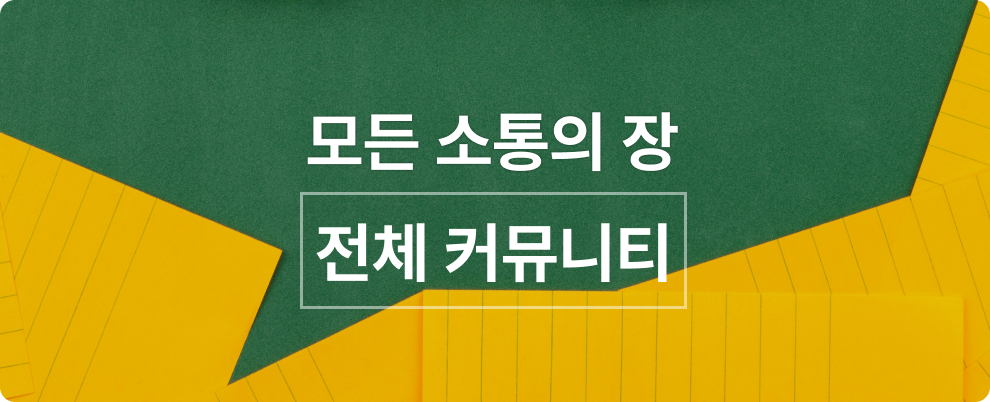
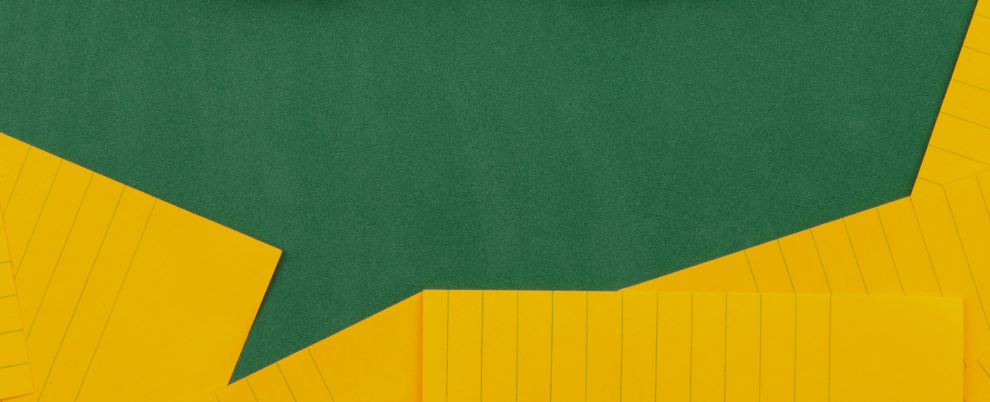
배너 완료. 반응형 나오면 디테일 수정 해야함,

diff --git a/css/main.css b/css/main.css
@@ -189,7 +189,9 @@ h4.dr-icon-best::before, .dr-community-vote h4::before{content:"";display: inlin
 
 /* 배너 */
 .dr-community-banner{width:330px; height: 140px; display: inline-block;border-radius: 5px; position: relative;}
-.dr-community-banner p { font-size: 2rem; color: #fff; position: absolute; top: 50%; left: 50%; transform: translate(-50%,-50%); }
+.dr-community-banner span{font-size: 2.2rem;color: #fff;position: absolute;top: 50%;left: 50%;transform: translate(-50%,-50%);line-height: 31px; font-weight: 700;margin-top: -20px;}
+.dr-community-banner span:last-child{margin-top: 20px; border:1px solid #fff; padding: 5px;}
+
 
 /* 투표 */
 .dr-community-vote{width:330px; height: 140px; border: 1px solid #E8E8EB;border-radius: 5px; padding: 2.5rem 3rem; overflow: hidden; background-color: #fff;}
@@ -237,6 +239,8 @@ h4.dr-icon-best::before, .dr-community-vote h4::before{content:"";display: inlin
 .dr-industry-cont-best ul li a{display: block; padding-top: 0.5rem; position: relative; line-height: 20px;}
 .dr-industry-cont-best ul li a::after{content: "";display: inline-block;width: 23px;height: 23px;background-image: url(../../img/icon/icon_arrow.png);background-size: contain;position: absolute;right: 0;top: 5px;}
 .dr-industry-cont-best ul li p{display: inline-block; width: calc(100% - 40px); font-size: 1.3rem; color: #505866; font-weight: 500; vertical-align: middle; overflow: hidden; text-overflow: ellipsis; white-space: nowrap;}
+
+.dr-community-banner.type2{margin: -2.5rem -3rem; top: 110px;}
 /* 커뮤니티_글상세 e */
 
 /* 커뮤니티_게시판 s */
@@ -269,7 +273,7 @@ h4.dr-icon-best::before, .dr-community-vote h4::before{content:"";display: inlin
 .dr-all-board-txt > span {line-height: 22px; color:#989CA1; display: -webkit-box; -webkit-line-clamp: 2; -webkit-box-orient: vertical; max-height:100%; overflow: hidden; margin-bottom:2rem;}
 .dr-all-date-wrap {display: flex; justify-content: space-between; align-items: center;}
 .dr-all-date-wrap > p {color:#989ca1;}
-.dr-banner-link {position: relative;}
+.dr-banner-link {position: relative; top: 50%; transform: translateY(-50%);}
 .dr-loading {margin-top:40px;}
 .dr-loading img {width: 24px; height: 24px; object-fit: cover; animation-name:dr-rotate; animation-iteration-count: infinite; animation-duration: 2s; animation-timing-function: linear;}
 @-webkit-keyframes dr-rotate{
@@ -334,7 +338,8 @@ h4.dr-icon-best::before, .dr-community-vote h4::before{content:"";display: inlin
 .dr-feel-write-txt {color:#689e81; font-size:12px; font-weight:500; line-height:20px;}
 .dr-feel-write-txt span {margin:0 4px;}
 
-.dr-feel .dr-community-banner {margin-top:25px;}
+.dr-feel .dr-community-banner {position: relative; margin-top:25px; height: auto; text-align: center;}
+.dr-feel .dr-community-banner img{border-radius: 5px;}
 /* 커뮤니티_감정평가법인 e */
 /* ------커뮤니티------ e */
 
@@ -443,6 +448,7 @@ h4.dr-icon-best::before, .dr-community-vote h4::before{content:"";display: inlin
 .dr-popup-wrap.dr-popup-delete{width: 388px;}
 .dr-popup-wrap.dr-popup-delete footer{background-color: transparent;}
 .dr-popup-wrap.dr-popup-delete button{margin: 0 5px; display: flex;justify-content: space-around;}
+.dr-partner-banner {position:relative;margin:-2.5rem -3rem -3rem -3rem;top:50px;}
 /* 파트너협업_글 상세 e*/
 
 /* 삭제하기 팝업 */
@@ -779,10 +785,12 @@ h4.dr-icon-best::before, .dr-community-vote h4::before{content:"";display: inlin
     /* 커뮤니티_글상세 s */
     .dr-details-wrap{max-width: 600px;}
     .dr-industry-cont-best{max-width: 290px;}
+    .dr-community-banner.type2{width: unset; max-width: unset; height: auto;}
      /* 커뮤니티_글상세 e */
 
     /* 커뮤니티_감정법인 s */
     .dr-feel .dr-industry{margin-top:0; flex-direction: column;}
+    .dr-all-board-list > ul > li.dr-banner-long{padding: 1rem;}
     /* 커뮤니티_감정법인 e */
     /* ------커뮤니티------ e */
 
@@ -927,9 +935,8 @@ h4.dr-icon-best::before, .dr-community-vote h4::before{content:"";display: inlin
     
     /* 커뮤니티_글상세 s */
     .dr-community-main.details{display: block !important;} 
-    .dr-details-wrap{max-width: 100%;}
+    .dr-details-wrap{max-width: 100%; margin-right: 0rem; padding: 2.5rem 2.5rem;}
     .dr-industry-cont-best{max-width: 100%; margin-top: 2.5rem;}
-    .dr-details-wrap{margin-right: 0rem;}
     /* 커뮤니티_글상세 e */
     
     /* 커뮤니티_게시판 s */
@@ -945,6 +952,7 @@ h4.dr-icon-best::before, .dr-community-vote h4::before{content:"";display: inlin
     /* 커뮤니티_감정법인 s */
     .dr-feel .dr-industry{margin-top:2.5rem; min-width: auto;}
     .dr-feel .dr-title-wrap .dr-title-search-box input {width:calc(100% - 123px);}
+    .dr-all-board-list > ul > li.dr-banner-long{padding: 0;}
     /* 커뮤니티_감정법인 e */
     /* ------커뮤니티------ e*/
     

diff --git a/html/partner/partner_details.html b/html/partner/partner_details.html
@@ -103,7 +103,7 @@
                         <a href="#none" class="dr-button dr-delete-button" onclick="drPopupOpen('.dr-popup-delete')">글 삭제하기</a>
                     </div>
                 </div>  
-                <div  class="dr-information"> 
+                <div class="dr-information"> 
                     <h4>작성자 정보 보기</h4>
                     <div>
                         <div class="d-flex justify-content-between">
@@ -123,10 +123,15 @@
                             <span class="text-decoration-underline">asdfg@gmail.com</span>
                         </div>
                     </div>
+                    <!-- 2023-09-18 추가 s -->
+                    <div class="dr-partner-banner">
+                        <img src="../../img/contents/pr-banner-1.png" alt="">
+                    </div>
+                    <!-- 2023-09-18 추가 e -->
                 </div>
 
                 <!-- 협업 의향 보내기 --> 
-                <!-- <div  class="dr-information"> 
+                <!-- <div class="dr-information"> 
                     <h4>작성자 정보 보기</h4>
                     <div>
                         <div class="d-flex justify-content-between">
@@ -141,7 +146,7 @@
                 </div> -->
 
                 <!-- 마감 일시 --> 
-                <!-- <div  class="dr-information"> 
+                <!-- <div class="dr-information"> 
                     <h4>작성자 정보 보기</h4>
                     <div>
                         <div class="d-flex justify-content-between">

diff --git a/html/community/community.html b/html/community/community.html
@@ -225,8 +225,12 @@
                 <!-- 로그인 아닐 시 노출 e-->
                 <div class="dr-community-side">
                     <div class="dr-community-banner mt-xl-4">
+                        <!-- 2023-09-18 추가 s -->
                         <!-- <p class="">Banner image link</p> -->
-                        <img src="../../img/contents/co-banner-1.png" alt="광고 이미지"><!-- 2023-09-18 -->
+                        <a href="#none" class="d-block">
+                            <img src="../../img/contents/co-banner-1.png" alt="광고 이미지">
+                        </a>    
+                        <!-- 2023-09-18 추가 s -->
                     </div> 
                     <div class="dr-community-vote mt-4">
                         <h4 class="dr-icon-vote dr-fw-700">인기 투표</h4>

diff --git a/html/community/post_details.html b/html/community/post_details.html
@@ -253,7 +253,15 @@
                         </li>
                     </ul>
                 </div>
+                <!-- 2023-09-18 추가 s -->
+                <div class="dr-community-banner type2">
+                    <a href="#none" class="d-block">
+                        <img src="../../img/contents/co-banner-1.png" alt="광고 이미지">
+                    </a>    
+                </div> 
+                <!-- 2023-09-18 추가 s -->
             </div>    
+
         </div>            
     </div>
     <!--// 컨테이너 --> 

diff --git a/html/community/community_form.html b/html/community/community_form.html
@@ -95,6 +95,8 @@
                         <!-- 2023-09-18 추가 s -->
                         <a href="#none">
                             <img src="../../img/contents/co-banner-4.png" alt="광고 이미지">
+                            <span>모든 소통의 장</span>
+                            <span>전체 커뮤니티</span>
                         </a>
                         <!-- 2023-09-18 추가 e -->
                     </div> 
